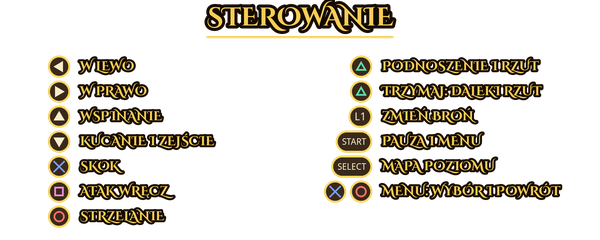
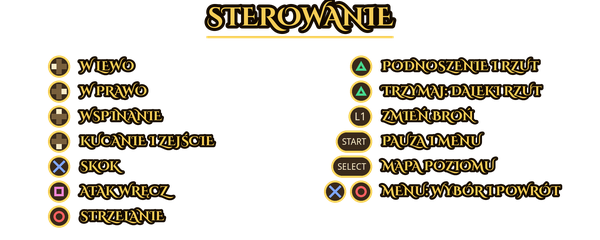
Controls screen: D-pad badges as a cross (not like the triangle button), stronger PlayStation symbols, texts without colons (the game's letters have none), margin at the right edge; PS3/3DS: menu letters made smoothly at the size they are drawn at
Claude-Session: https://claude.ai/code/session_01HEeARedioTsvWC5PnAreDq

diff --git a/OpenClaw/Engine/UserInterface/GameFont.cpp b/OpenClaw/Engine/UserInterface/GameFont.cpp
@@ -1,6 +1,7 @@
 #include "GameFont.h"
 
 #include <algorithm>
+#include <cmath>
 #include <cstdint>
 #include <cstring>
 #include <map>
@@ -909,16 +910,90 @@ namespace GameFont
         return true;
     }
 
+    // A copy at w x h: smooth (bilinear) when bigger, averaged when smaller.
+    Pixels Resize(const Pixels& p, int w, int h)
+    {
+        Pixels out;
+        out.w = std::max(1, w);
+        out.h = std::max(1, h);
+        out.px.assign((size_t)out.w * out.h, 0);
+        if (out.w <= p.w && out.h <= p.h)
+        {
+            for (int y = 0; y < out.h; ++y)
+                for (int x = 0; x < out.w; ++x)
+                {
+                    int sx0 = x * p.w / out.w, sx1 = std::max(sx0 + 1, (x + 1) * p.w / out.w);
+                    int sy0 = y * p.h / out.h, sy1 = std::max(sy0 + 1, (y + 1) * p.h / out.h);
+                    uint32_t r = 0, g = 0, b = 0, a = 0, n = 0;
+                    for (int sy = sy0; sy < sy1; ++sy)
+                        for (int sx = sx0; sx < sx1; ++sx)
+                        {
+                            uint32_t c = p.px[(size_t)sy * p.w + sx], ca = c >> 24;
+                            r += (c & 0xFF) * ca; g += ((c >> 8) & 0xFF) * ca; b += ((c >> 16) & 0xFF) * ca;
+                            a += ca; n++;
+                        }
+                    if (!a) continue;
+                    out.px[(size_t)y * out.w + x] = ((a / n) << 24) | ((b / a) << 16) | ((g / a) << 8) | (r / a);
+                }
+            return out;
+        }
+        for (int y = 0; y < out.h; ++y)
+        {
+            float fy = (y + 0.5f) * p.h / out.h - 0.5f;
+            int y0 = std::max(0, std::min(p.h - 1, (int)std::floor(fy))), y1 = std::min(p.h - 1, y0 + 1);
+            float ty = std::max(0.0f, std::min(1.0f, fy - y0));
+            for (int x = 0; x < out.w; ++x)
+            {
+                float fx = (x + 0.5f) * p.w / out.w - 0.5f;
+                int x0 = std::max(0, std::min(p.w - 1, (int)std::floor(fx))), x1 = std::min(p.w - 1, x0 + 1);
+                float tx = std::max(0.0f, std::min(1.0f, fx - x0));
+                const uint32_t c[4] = { p.px[(size_t)y0 * p.w + x0], p.px[(size_t)y0 * p.w + x1],
+                                        p.px[(size_t)y1 * p.w + x0], p.px[(size_t)y1 * p.w + x1] };
+                const float wgt[4] = { (1 - tx) * (1 - ty), tx * (1 - ty), (1 - tx) * ty, tx * ty };
+                float r = 0, g = 0, b = 0, a = 0;
+                for (int k = 0; k < 4; ++k)
+                {
+                    float ca = (float)(c[k] >> 24) * wgt[k];
+                    r += (c[k] & 0xFF) * ca; g += ((c[k] >> 8) & 0xFF) * ca; b += ((c[k] >> 16) & 0xFF) * ca;
+                    a += ca;
+                }
+                if (a < 0.5f) continue;
+                uint32_t A = (uint32_t)std::min(255.0f, a + 0.5f);
+                out.px[(size_t)y * out.w + x] = (A << 24) | ((uint32_t)(b / a + 0.5f) << 16) |
+                                                ((uint32_t)(g / a + 0.5f) << 8) | (uint32_t)(r / a + 0.5f);
+            }
+        }
+        return out;
+    }
+
     std::shared_ptr<Image> ToImage(Pixels& p)
     {
+        Pixels* src = &p;
+#if defined(__PSL1GHT__) || defined(__3DS__)
+        // Software rendering scales the menu's pictures with plain sampling
+        // (blocky letters at the PS3's 1.125x, the 3DS's 0.6x): the texture is
+        // made at the size it is drawn at, smoothly, and placed by its own size.
+        Pixels scaled;
+        const double s = g_pApp ? g_pApp->GetWindowSize().y / 480.0 : 1.0;
+        const bool rescale = s > 0.1 && (s < 0.99 || s > 1.01);
+        if (rescale)
+        {
+            scaled = Resize(p, (int)(p.w * s), (int)(p.h * s));
+            src = &scaled;
+        }
+#endif
         // RGBA bytes (R first) -> texture
-        SDL_Surface* surface = SDL_CreateRGBSurfaceWithFormatFrom(p.px.data(), p.w, p.h, 32, p.w * 4, SDL_PIXELFORMAT_ABGR8888);
+        SDL_Surface* surface = SDL_CreateRGBSurfaceWithFormatFrom(src->px.data(), src->w, src->h, 32, src->w * 4, SDL_PIXELFORMAT_ABGR8888);
         if (!surface) return nullptr;
         SDL_Texture* texture = SDL_CreateTextureFromSurface(g_pApp->GetRenderer(), surface);
         SDL_FreeSurface(surface);
         if (!texture) return nullptr;
         SDL_SetTextureBlendMode(texture, SDL_BLENDMODE_BLEND);
-        return std::shared_ptr<Image>(new Image(texture));
+        std::shared_ptr<Image> image(new Image(texture));
+#if defined(__PSL1GHT__) || defined(__3DS__)
+        if (rescale) image->SetLogicalSize(p.w, p.h);
+#endif
+        return image;
     }
 
     std::shared_ptr<Image> Render(const std::string& utf8, Look look, int underline)

diff --git a/scripts/make_controls_image.py b/scripts/make_controls_image.py
@@ -24,7 +24,7 @@ W, H = 600, 240
 GOLD = (246, 205, 86, 255)
 CREAM = (250, 236, 200, 255)
 DARK = (20, 10, 0, 255)
-PS_COLORS = {"PS_X": (120, 160, 255), "PS_O": (255, 110, 110), "PS_SQ": (240, 140, 220), "PS_TRI": (90, 220, 170)}
+PS_COLORS = {"PS_X": (125, 165, 255), "PS_O": (255, 95, 95), "PS_SQ": (245, 135, 215), "PS_TRI": (70, 215, 140)}
 
 # Buttons of each action per controller style.
 BUTTONS = {
@@ -84,18 +84,24 @@ def badge(draw, x, cy, label, fnt):
     draw.rounded_rectangle(box, radius=h / 2, fill=(40, 24, 8, 235), outline=GOLD, width=2 * S)
     cx, r = x + w / 2, 5.5 * S
     if label in ("<", ">", "^", "v"):
-        # The font has no arrow glyphs: draw a triangle.
-        pts = {
-            "^": [(cx, cy - r), (cx + r, cy + r * 0.7), (cx - r, cy + r * 0.7)],
-            "v": [(cx, cy + r), (cx + r, cy - r * 0.7), (cx - r, cy - r * 0.7)],
-            "<": [(cx - r, cy), (cx + r * 0.7, cy - r), (cx + r * 0.7, cy + r)],
-            ">": [(cx + r, cy), (cx - r * 0.7, cy - r), (cx - r * 0.7, cy + r)],
+        # A D-pad (cross) with the pressed arm lit, so it does not look like
+        # a face button (PlayStation's triangle).
+        R = 7.5 * S          # arm length from the centre
+        t = 2.6 * S          # half the arm width
+        dim = (120, 95, 60, 255)
+        draw.rectangle([cx - R, cy - t, cx + R, cy + t], fill=dim)
+        draw.rectangle([cx - t, cy - R, cx + t, cy + R], fill=dim)
+        arm = {
+            "^": [cx - t, cy - R, cx + t, cy - t],
+            "v": [cx - t, cy + t, cx + t, cy + R],
+            "<": [cx - R, cy - t, cx - t, cy + t],
+            ">": [cx + t, cy - t, cx + R, cy + t],
         }[label]
-        draw.polygon(pts, fill=CREAM)
+        draw.rectangle(arm, fill=CREAM)
     elif label in PS_COLORS:
         # PlayStation face button symbols
         col = PS_COLORS[label] + (255,)
-        lw = int(1.8 * S)
+        lw = int(2.4 * S)
         if label == "PS_X":
             draw.line([(cx - r, cy - r), (cx + r, cy + r)], fill=col, width=lw)
             draw.line([(cx - r, cy + r), (cx + r, cy - r)], fill=col, width=lw)

diff --git a/OpenClaw/Engine/UserInterface/ControlsScreen.cpp b/OpenClaw/Engine/UserInterface/ControlsScreen.cpp
@@ -99,7 +99,7 @@ namespace ControlsScreen
         };
         std::vector<Row> right = {
             { { b[3] }, Lang::Tr("PODNOSZENIE I RZUT", "PICK UP AND THROW") },
-            { { b[3] }, Lang::Tr("TRZYMAJ: DALEKI RZUT", "HOLD: FAR THROW") },
+            { { b[3] }, Lang::Tr("PRZYTRZYMAJ DO DALEKIEGO RZUTU", "HOLD FOR A FAR THROW") },
             { { b[4] }, Lang::Tr("ZMIEŃ BROŃ", "CHANGE WEAPON") },
             { { b[8] }, Lang::Tr("PAUZA I MENU", "PAUSE AND MENU") },
             { { b[9] }, Lang::Tr("MAPA POZIOMU", "LEVEL MAP") },
@@ -108,9 +108,9 @@ namespace ControlsScreen
         {
             right.push_back({ { b[5] }, Lang::Tr("SZYBKI ZAPIS", "QUICK SAVE") });
             right.push_back({ { b[6] }, Lang::Tr("SZYBKIE WCZYTANIE", "QUICK LOAD") });
-            right.push_back({ { b[7] }, Lang::Tr("TRZYMAJ: COFANIE CZASU", "HOLD: REWIND") });
+            right.push_back({ { b[7] }, Lang::Tr("PRZYTRZYMAJ DO COFANIA CZASU", "HOLD TO REWIND") });
         }
-        right.push_back({ { b[10], b[11] }, Lang::Tr("MENU: WYBÓR I POWRÓT", "MENU: SELECT AND BACK") });
+        right.push_back({ { b[10], b[11] }, Lang::Tr("WYBÓR I POWRÓT W MENU", "SELECT AND BACK IN MENUS") });
 
         const int rowsMax = (int)std::max(left.size(), right.size());
         const int step = rowsMax > 7 ? 21 : 25;
@@ -170,7 +170,7 @@ namespace ControlsScreen
             }
         };
         drawColumn(left, kLeftKeys, kRightKeys - 46);
-        drawColumn(right, kRightKeys, kWidth);
+        drawColumn(right, kRightKeys, kWidth - 8);
         return GameFont::ToImage(canvas);
     }
 }

diff --git a/OpenClaw/Engine/UserInterface/GameFont.h b/OpenClaw/Engine/UserInterface/GameFont.h
@@ -52,6 +52,7 @@ namespace GameFont
     // For composing screens: a smaller copy (percent of the size, pixels
     // averaged) and drawing one picture over another.
     Pixels Scale(const Pixels& p, int percent);
+    Pixels Resize(const Pixels& p, int w, int h);
     void Paste(Pixels& dst, const Pixels& src, int x, int y);
     // A soft dark shadow under the letters, moved by (dx, dy), like the one
     // in the original menu pictures (for small texts, where the letters'

diff --git a/OpenClaw/Engine/Graphics2D/Image.h b/OpenClaw/Engine/Graphics2D/Image.h
@@ -29,6 +29,9 @@ public:
     inline int GetOffsetY() { return m_OffsetY; }
 
     void SetOffset(int x, int y) { m_OffsetX = x; m_OffsetY = y; }
+    // The size the game places the picture by, when its texture is made
+    // bigger or smaller than that (already at the size it is drawn at).
+    void SetLogicalSize(int w, int h) { m_Width = w; m_Height = h; }
 
     SDL_Rect GetPositonRect(int32_t x, int32_t y);
 
